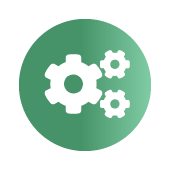
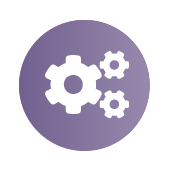
Atualizações do tema

diff --git a/css/theme/objects_style.css b/css/theme/objects_style.css
@@ -316,7 +316,7 @@
     height: auto;
     border-left: 8px solid var(--THEME_COLOR_MODULE_ONE_STRONG);
     border-right: 8px solid var(--THEME_COLOR_MODULE_ONE_STRONG);
-    background: #e4eeea;
+    background: #ecebf0;
     padding: 25px 50px 25px 50px;
     margin-bottom: 30px;
 }
@@ -1458,6 +1458,11 @@ ul.sl-bullet li::before {
     background-color: var(--THEME_COLOR_MODULE_ONE_LIGHT) !important;
     color: white !important;
     padding: 20px;
+}
+
+.nav-item>a {
+    background-color: #ecebf0 !important;
+    border-color: white !important;
 }
 
 .nav-item>a.active {

diff --git a/css/user/user_color_setup.css b/css/user/user_color_setup.css
@@ -1,9 +1,9 @@
 :root {
 
-  --THEME_COLOR_MODULE_ONE_STRONG: #00592d;
-  --THEME_COLOR_MODULE_ONE_LIGHT: #7fcca4;
+  --THEME_COLOR_MODULE_ONE_STRONG: #494170;
+  --THEME_COLOR_MODULE_ONE_LIGHT: #9589a9;
   --THEME_COLOR_MODULE_ONE_SUPER_LIGHT: #FBBF09;
-  --THEME_COLOR_MODULE_ONE: #479369;
+  --THEME_COLOR_MODULE_ONE: #70648c;
   --THEME_FONT_COLOR: #1a1a1a;
 
   }
